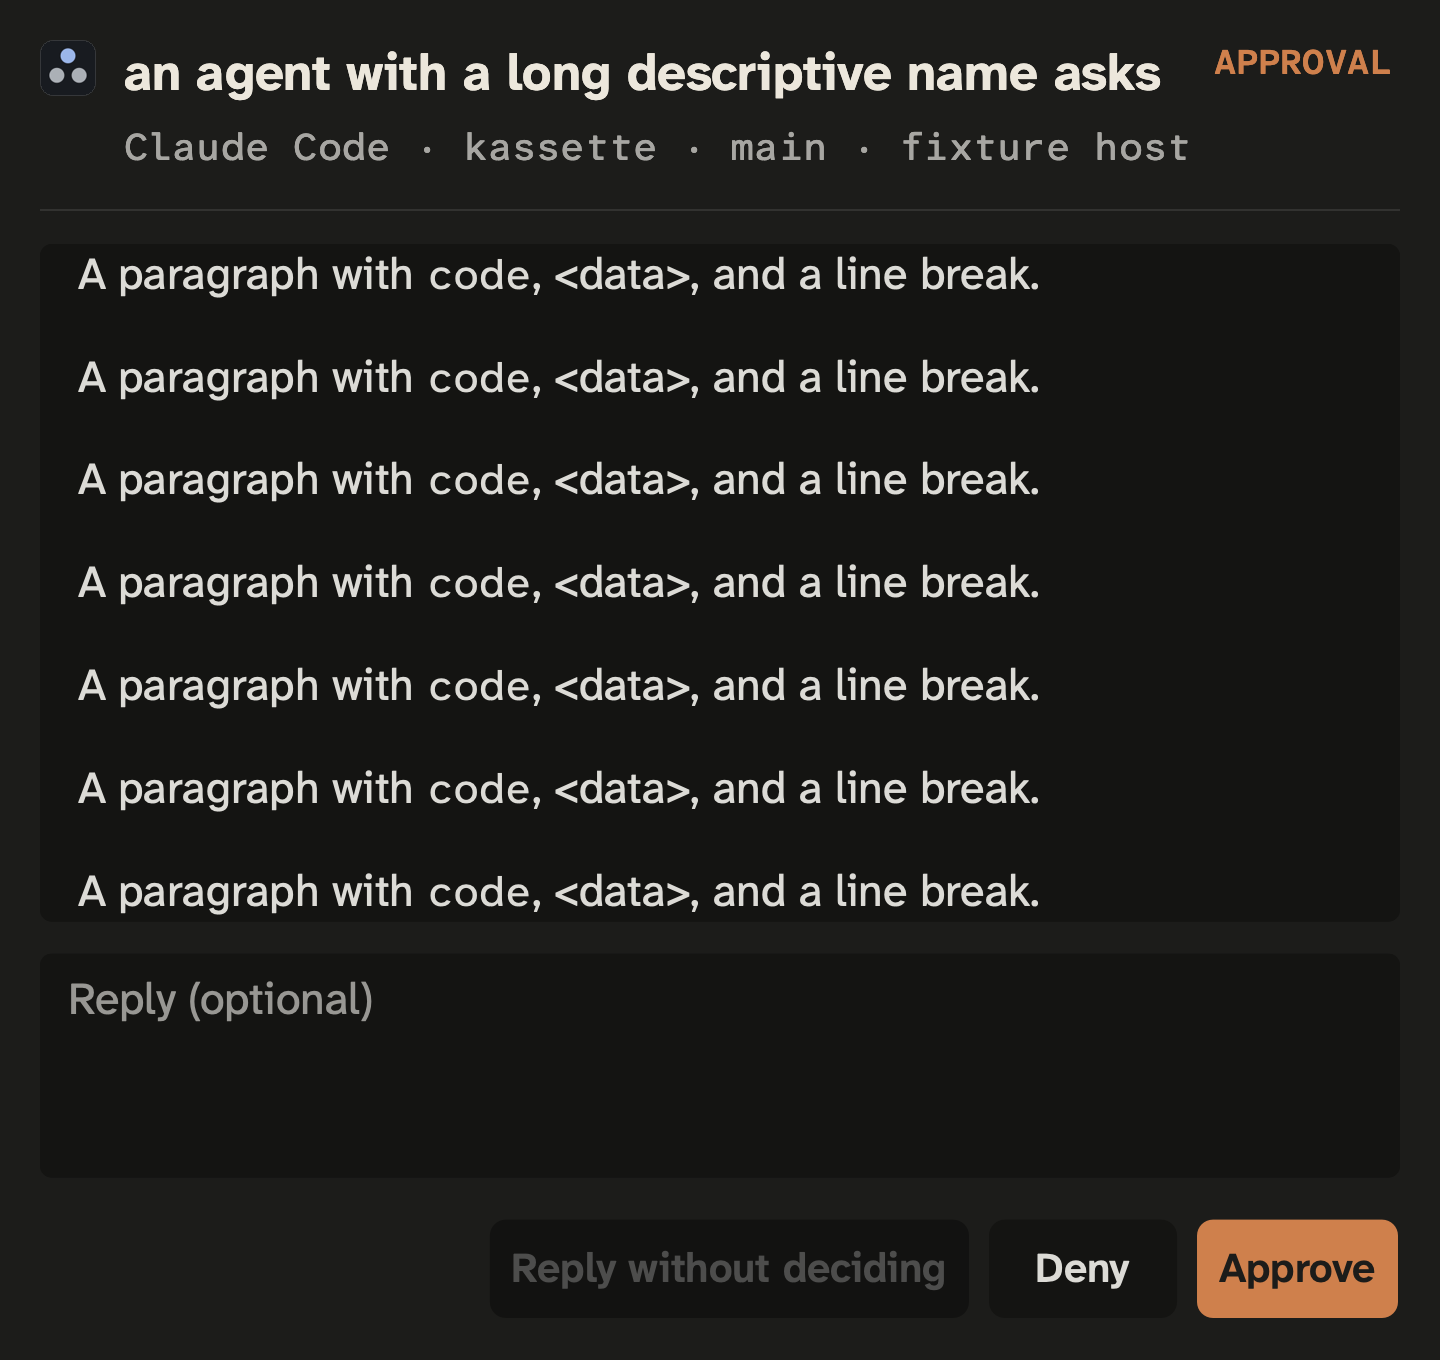
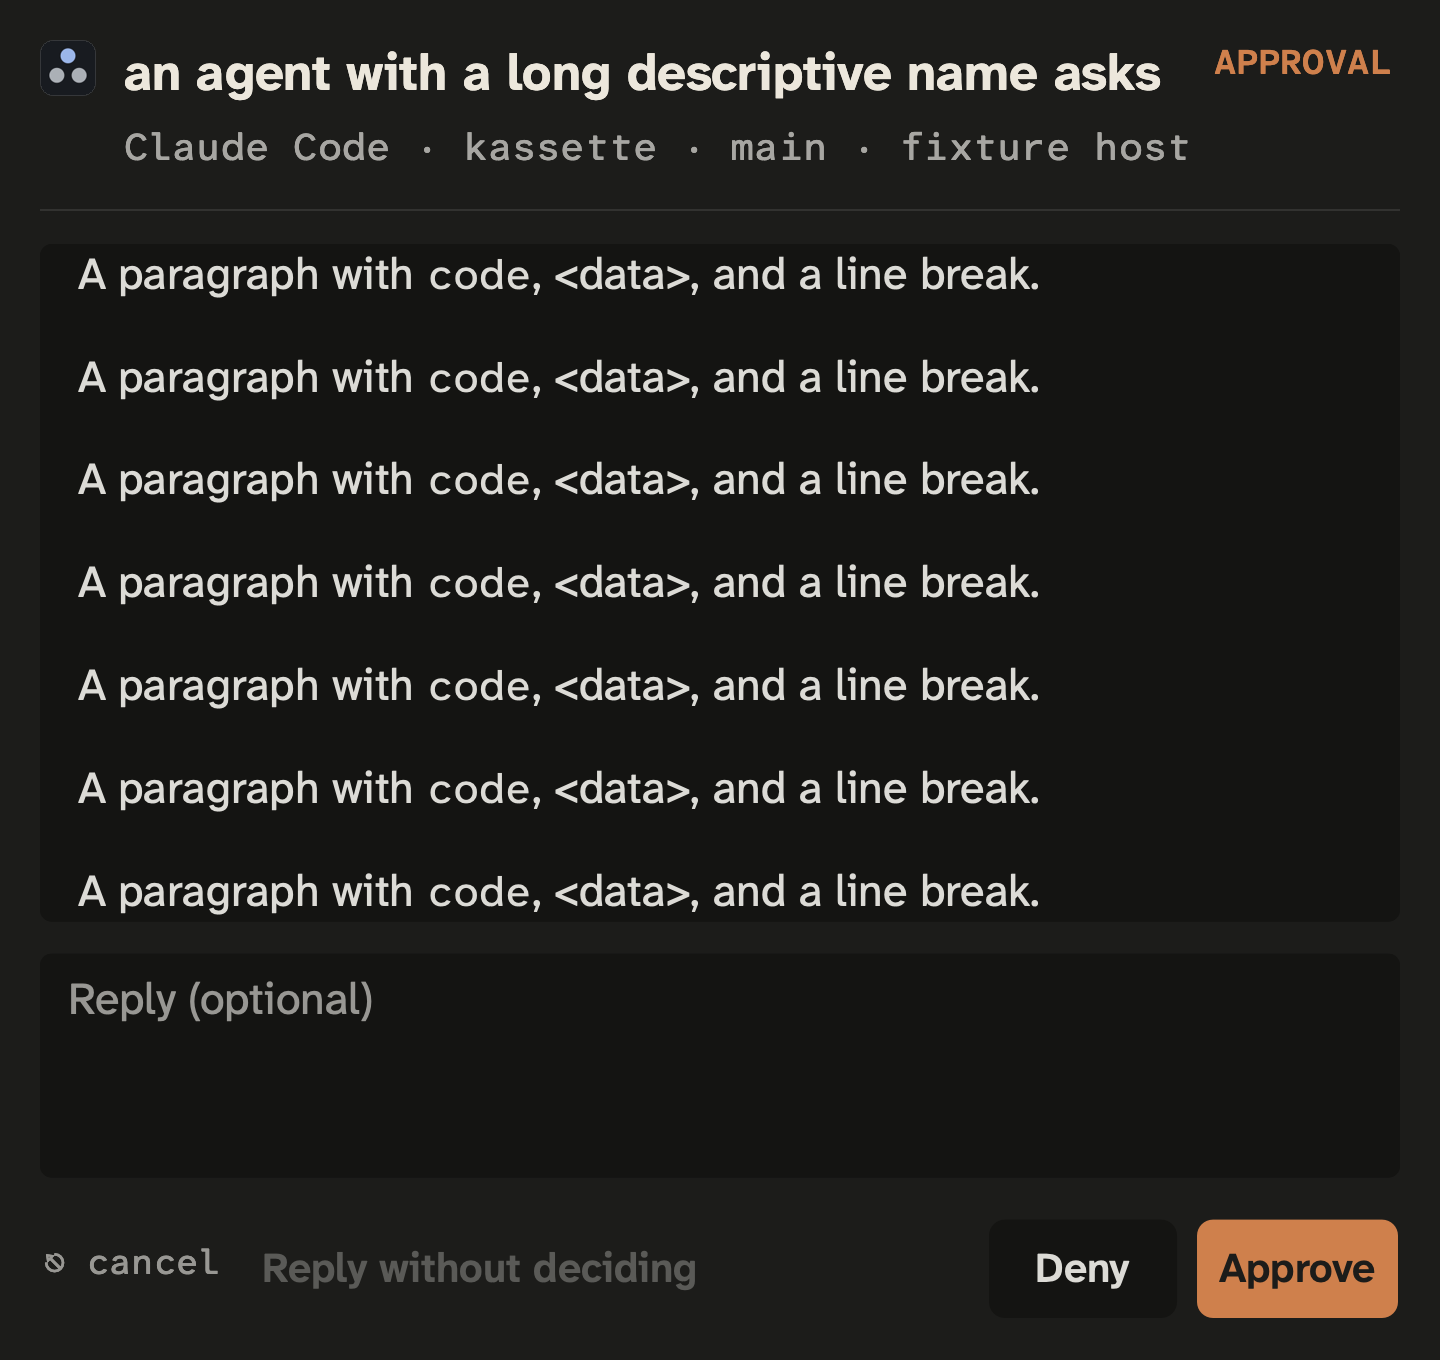
fix: make no-decision reply a quiet footer action

Changed region(s): [[0.1875, 0.9265, 0.6562, 0.9574], [0.0625, 0.9265, 0.1562, 0.9574]]

diff --git a/internal/notify/prompt_native_darwin_test.go b/internal/notify/prompt_native_darwin_test.go
@@ -193,7 +193,7 @@ func TestNativePromptFullTextChoicesTypingAndNoImplicitApproval(t *testing.T) {
 				t.Fatal("overflow has no visible more-below cue")
 			}
 			if scale == 1.6 {
-				assertPromptLaneMatchesPaper(t, path, snap)
+				assertPromptPointMatchesPaper(t, path, snap, "overflowLaneX", "overflowLaneY", "shared scroll gutter")
 			}
 			if scale == 1.6 && snap["bodyHeight"].(float64) < 2000 {
 				t.Fatalf("full long message has no scrollable layout: bodyHeight=%v docHeight=%v renderedLength=%v", snap["bodyHeight"], snap["documentHeight"], snap["renderedLength"])
@@ -230,10 +230,13 @@ func TestNativePromptFullTextChoicesTypingAndNoImplicitApproval(t *testing.T) {
 			if request["defaultApproval"] != false || request["actionsFit"] != true {
 				t.Fatal("request decision controls do not fit or an approval became default")
 			}
+			assertPromptPointMatchesPaper(t, filepath.Join(screens, name), request, "commentPaddingX", "commentPaddingY", "no-decision reply background")
 		}
 	}
 	write(map[string]any{"type": "fixture_edit", "id": "dibs.msg.prompt.8", "text": "I need more detail"})
 	read("editing")
+	write(map[string]any{"type": "fixture_snapshot", "id": "dibs.msg.prompt.8", "path": filepath.Join(screens, "request-dark-160-reply.png"), "appearance": "dark", "preserveScroll": true})
+	read("snapshot")
 	write(map[string]any{"type": "fixture_return", "id": "dibs.msg.prompt.8"})
 	read("unchanged")
 	write(map[string]any{"type": "fixture_key", "id": "dibs.msg.prompt.8", "keyCode": 36, "focus": "reply"})
@@ -303,9 +306,9 @@ func assertPromptHeaderMarkVisible(t *testing.T, path string, width float64) {
 	}
 }
 
-// Compare the shared scroll gutter with adjacent paper in the same native
+// Compare the scroll gutter or text-button padding with adjacent paper in the same native
 // render, so colour profiles and appearance do not require fixed RGB bytes.
-func assertPromptLaneMatchesPaper(t *testing.T, path string, view map[string]any) {
+func assertPromptPointMatchesPaper(t *testing.T, path string, view map[string]any, xKey, yKey, label string) {
 	t.Helper()
 	data, err := os.ReadFile(path)
 	if err != nil {
@@ -316,12 +319,12 @@ func assertPromptLaneMatchesPaper(t *testing.T, path string, view map[string]any
 		t.Fatal(err)
 	}
 	scale := float64(img.Bounds().Dx()) / view["width"].(float64)
-	x, y := int(view["overflowLaneX"].(float64)*scale), int(view["overflowLaneY"].(float64)*scale)
+	x, y := int(view[xKey].(float64)*scale), int(view[yKey].(float64)*scale)
 	r, g, b, _ := img.At(x, y).RGBA()
 	pr, pg, pb, _ := img.At(int(5*scale), y).RGBA()
 	for _, delta := range []int64{int64(r) - int64(pr), int64(g) - int64(pg), int64(b) - int64(pb)} {
 		if delta > 3*257 || delta < -3*257 {
-			t.Fatalf("shared scroll gutter does not match paper: gutter=%v paper=%v", []uint32{r, g, b}, []uint32{pr, pg, pb})
+			t.Fatalf("%s does not match paper: sample=%v paper=%v", label, []uint32{r, g, b}, []uint32{pr, pg, pb})
 		}
 	}
 }

diff --git a/docs/review/native-prompts-378262/README.md b/docs/review/native-prompts-378262/README.md
@@ -26,6 +26,11 @@ Requests retain explicit decision buttons, with no default approval:
 | 100% | ![Light request](request-light-100.png) | ![Dark request](request-dark-100.png) |
 | 160% | ![Light large request](request-light-160.png) | ![Dark large request](request-dark-160.png) |
 
+Typing enables the borderless no-decision reply, without making approval a
+default. The footer keeps its Esc hint and separates this reply from decisions:
+
+![Dark request after typing](request-dark-160-reply.png)
+
 ## How these were measured
 
 The before images use the notifier source at `f16b91573657b842431332bfbeea61634ef4920b`
@@ -61,6 +66,12 @@ the light lane measured `[65535 65535 65535]` while adjacent paper measured
 and sizing the document to the actual viewport, the same check passes in both
 appearances. This comparison uses neighbouring pixels in the same render,
 preserving colour-profile differences rather than hard-coding RGB bytes.
+
+The no-decision reply's disabled background was separately observed failing
+against adjacent paper (`[38293 38036 37265]` versus `[58853 58339 57311]`).
+Making it a text-only button passes the same pixel check in both appearances
+and text sizes. Native layout checks also reject overlapping footer controls
+or hints; the request keyboard checks still forbid an implicit verdict.
 
 Regenerate after images with:
 
